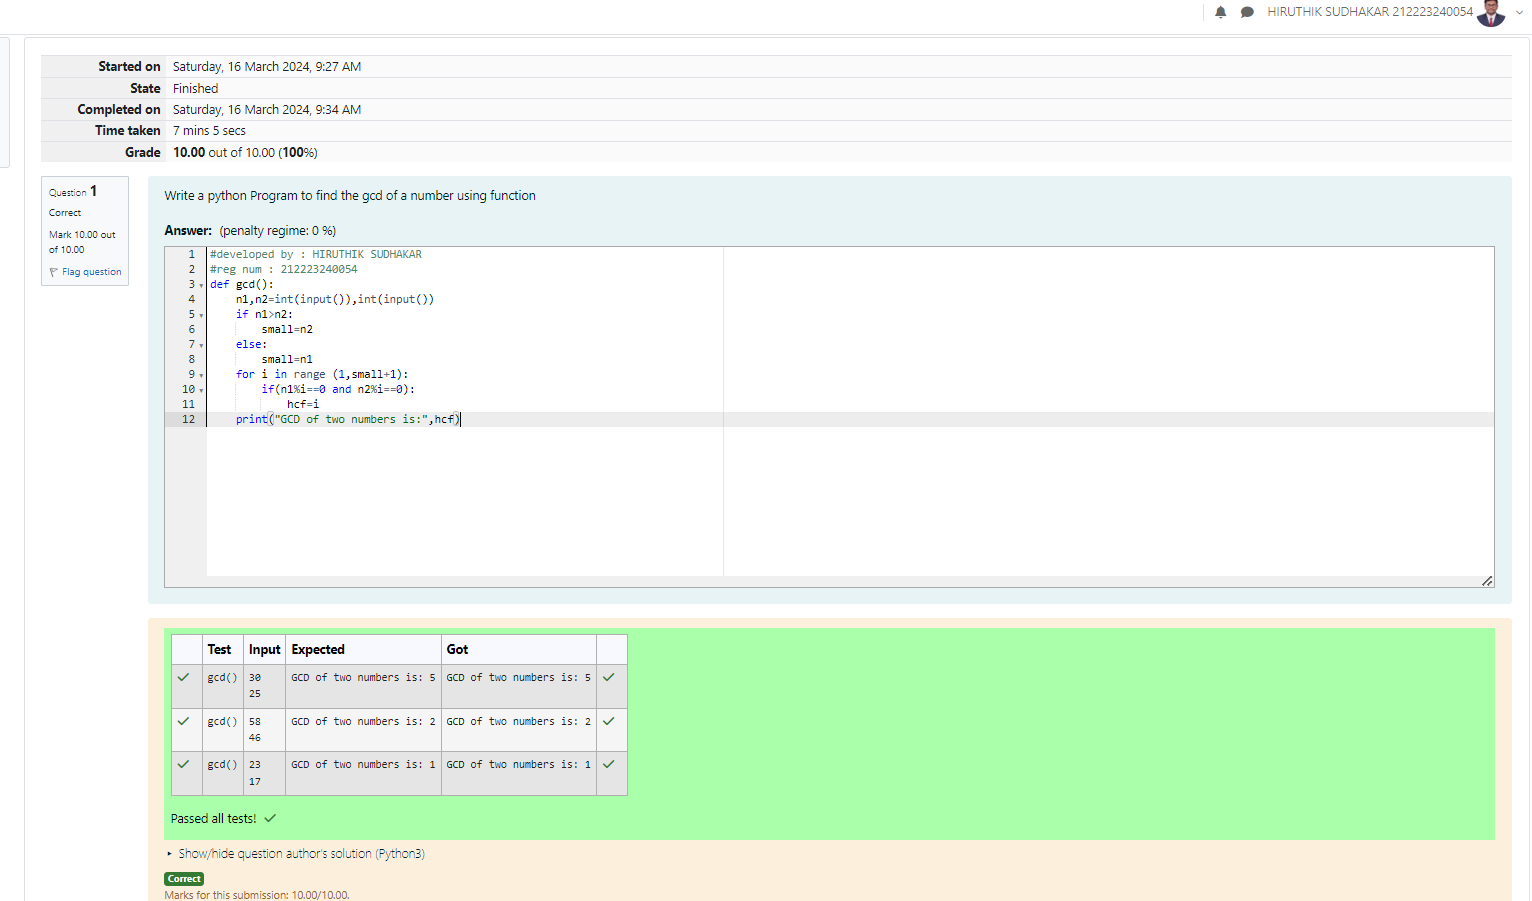
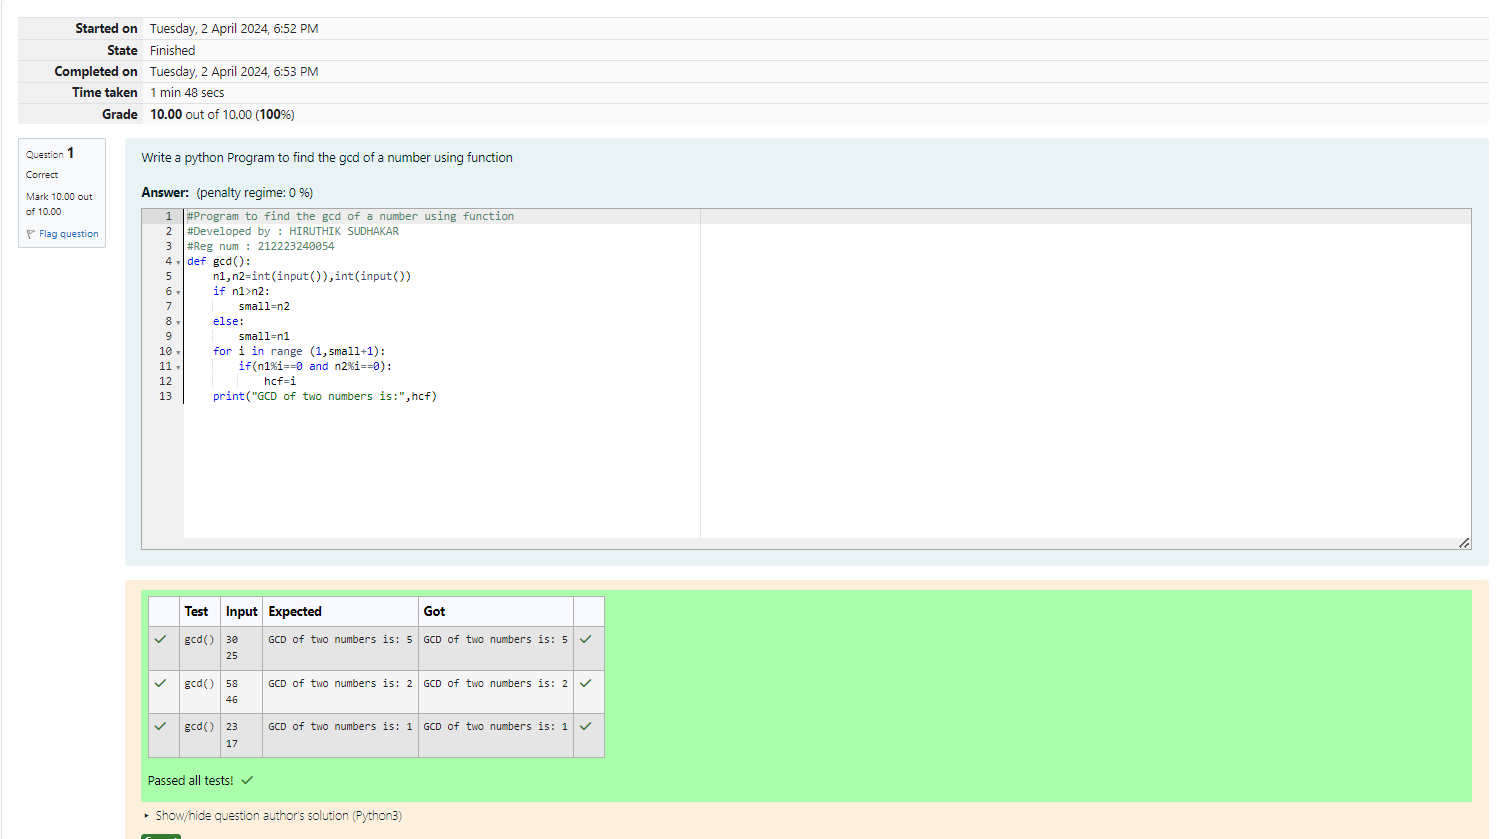
first commit

Changed region(s): [[0.0615, 0.6198, 1.0, 1.0], [0.0, 0.031, 0.369, 0.4958], [0.7687, 0.0, 0.984, 0.031]]

diff --git a/README.md b/README.md
@@ -15,8 +15,9 @@ To write a program to find the GCD of two numbers using function.
 
 ## Program:
 ```python
-#developed by : HIRUTHIK SUDHAKAR
-#reg num : 212223240054
+#Program to find the gcd of a number using function
+#Developed by : HIRUTHIK SUDHAKAR
+#Reg num : 212223240054
 def gcd():
     n1,n2=int(input()),int(input())
     if n1>n2:
